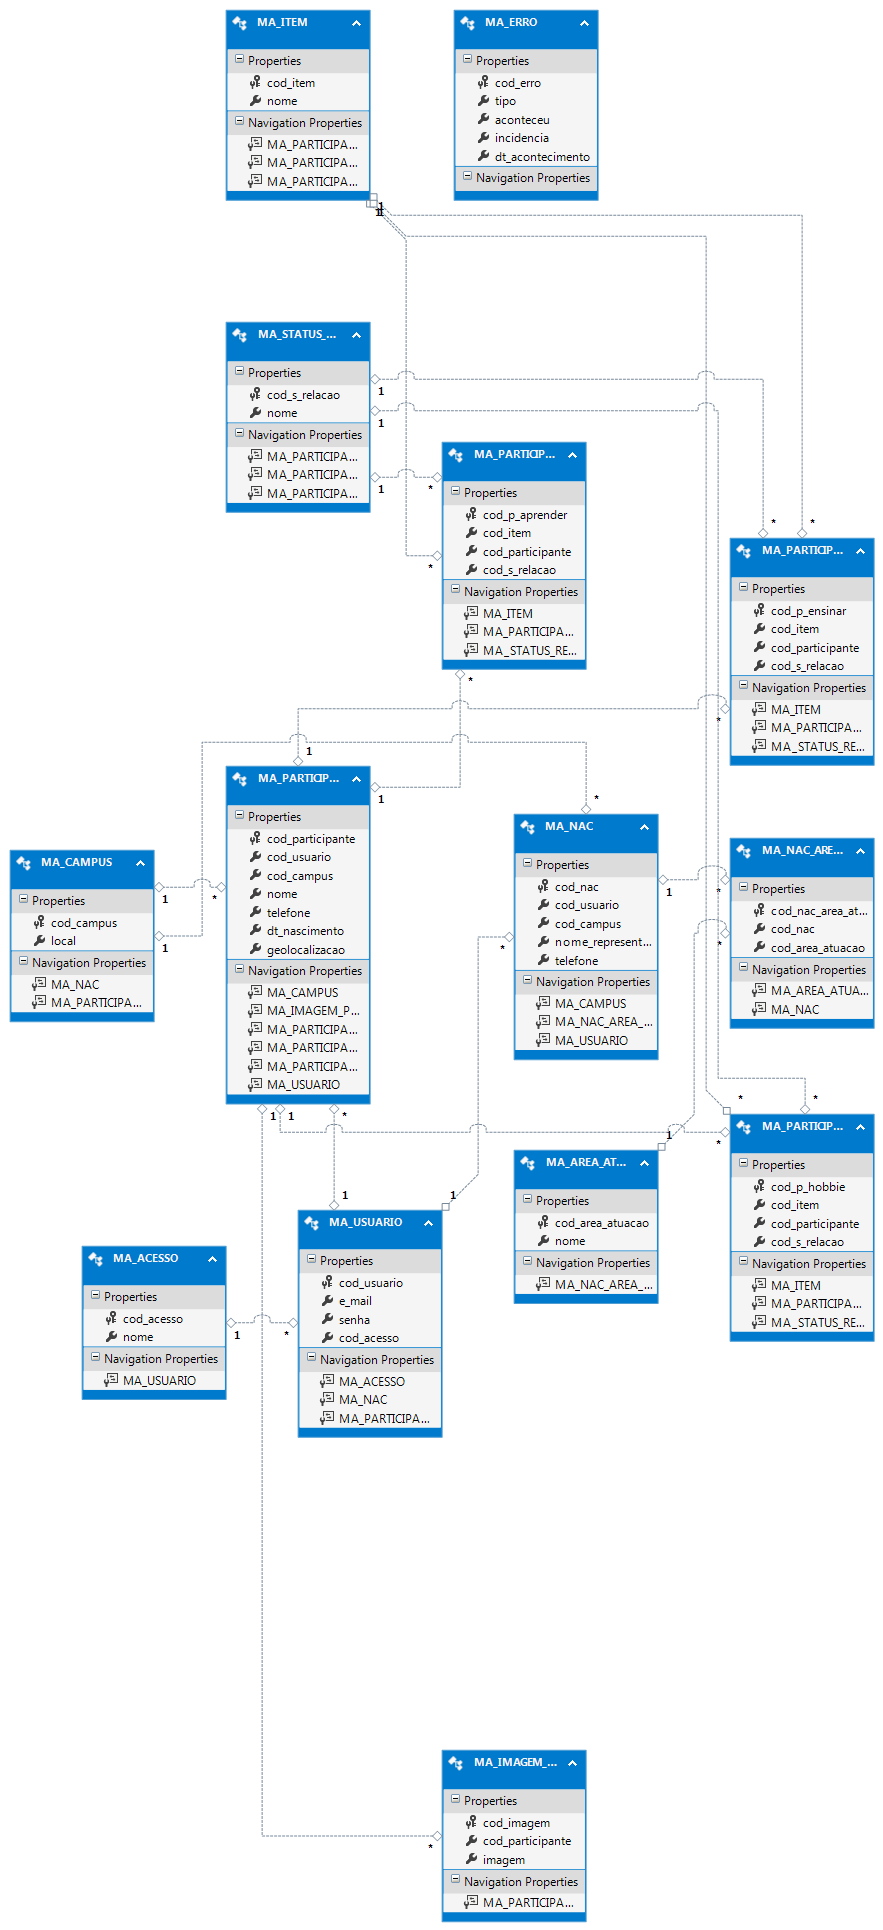
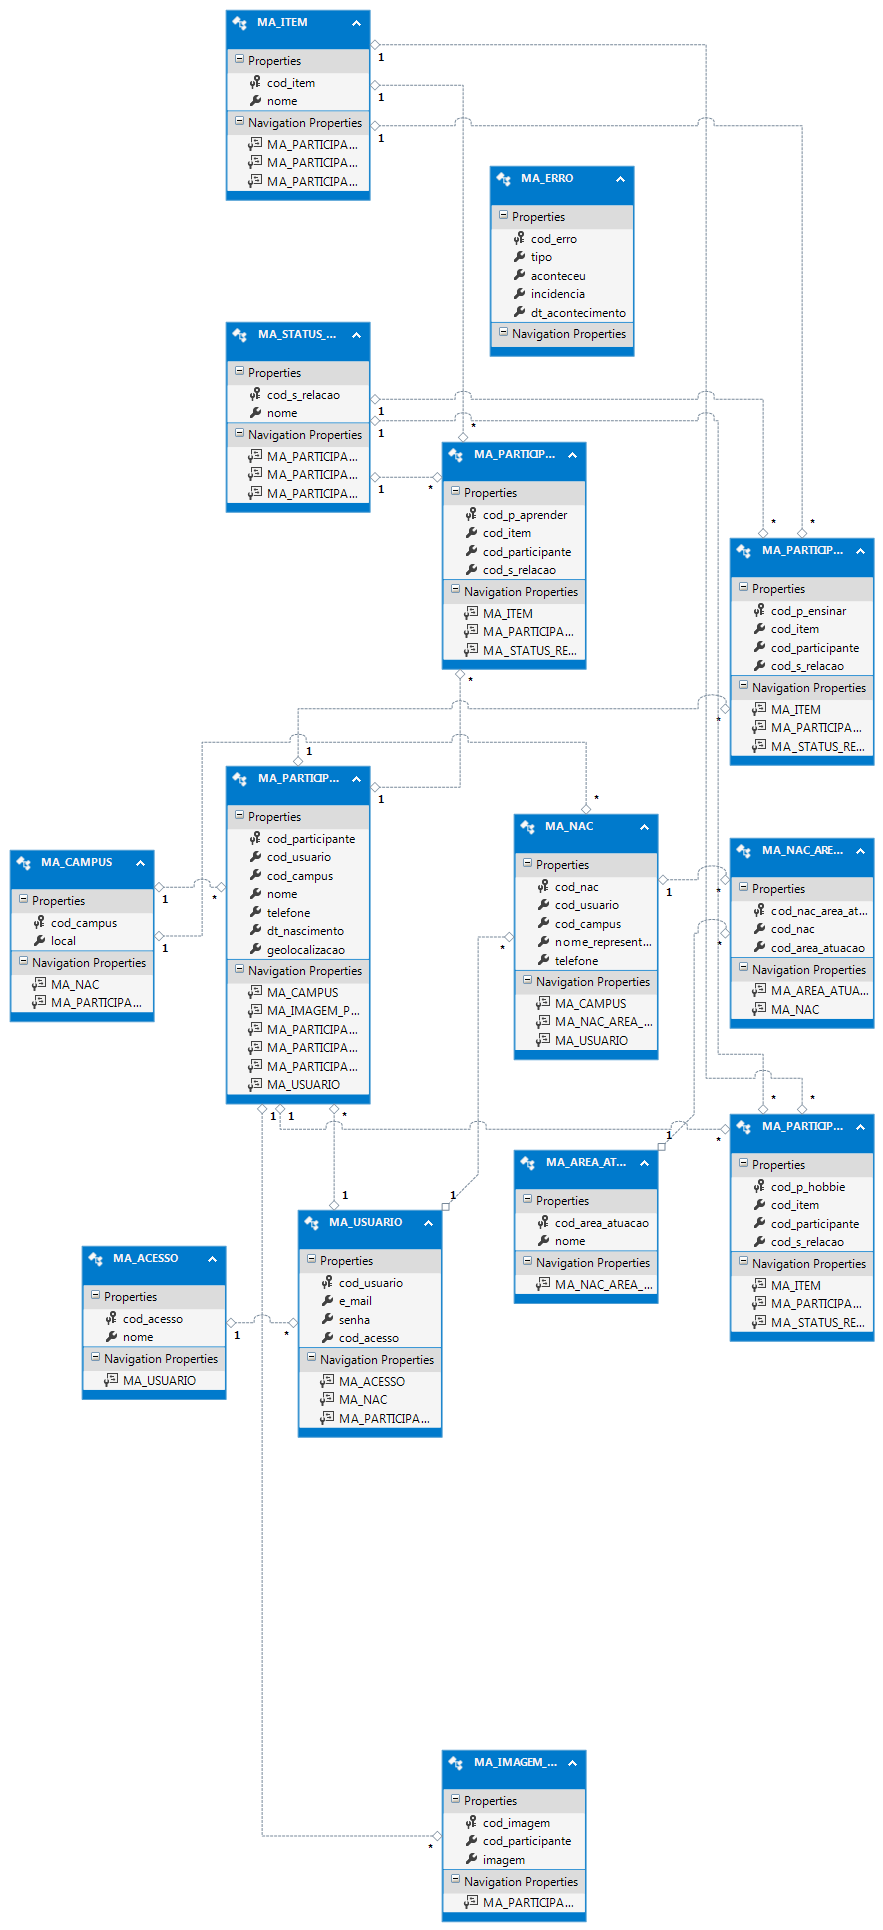
Atualizado Gestor de Ensino de Participante na camada de apllicação e digrama do Entity Framework.

diff --git a/MimAcher.Aplicacao/GestorDeParticipanteEnsinar.cs b/MimAcher.Aplicacao/GestorDeParticipanteEnsinar.cs
@@ -41,7 +41,7 @@ namespace MimAcher.Aplicacao
 
         public Boolean InserirNovoEnsinamentoDeParticipanteComRetorno(MA_PARTICIPANTE_ENSINAR participanteensinar)
         {
-            return this.InserirNovoEnsinamentoDeParticipanteComRetorno(participanteensinar);
+            return this.RepositorioDeParticipanteEnsinar.InserirNovoEnsinamentoDeParticipanteComRetorno(participanteensinar);
         }
 
         public int BuscarQuantidadeRegistros()
